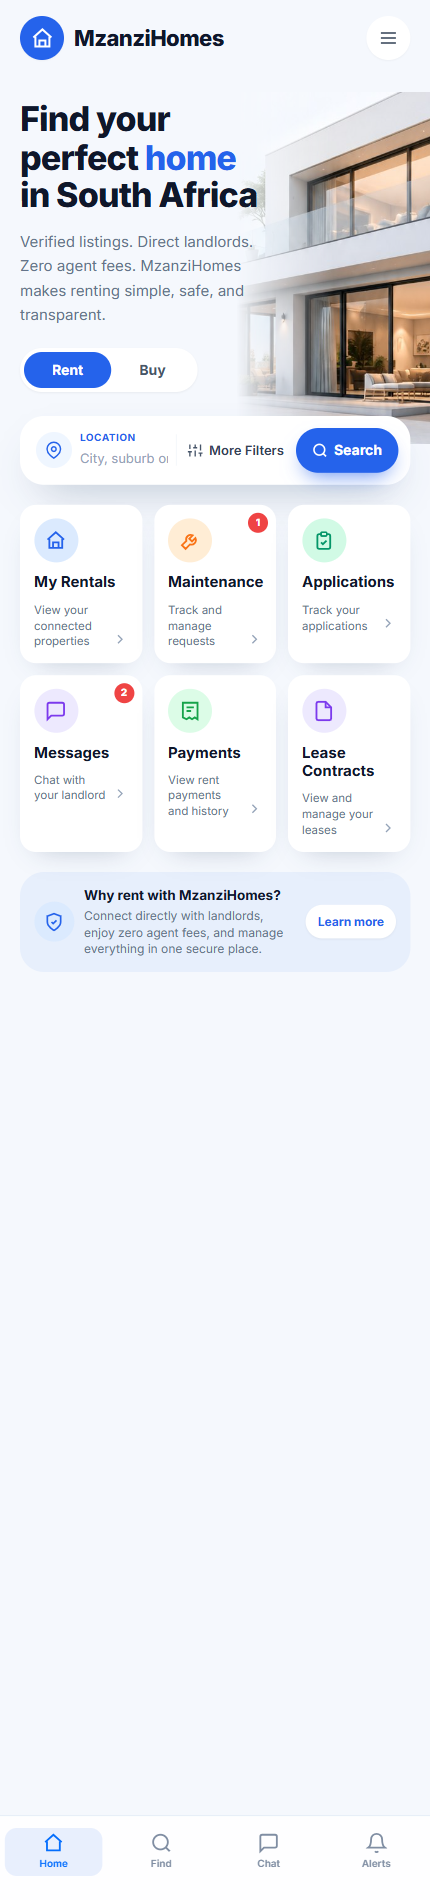
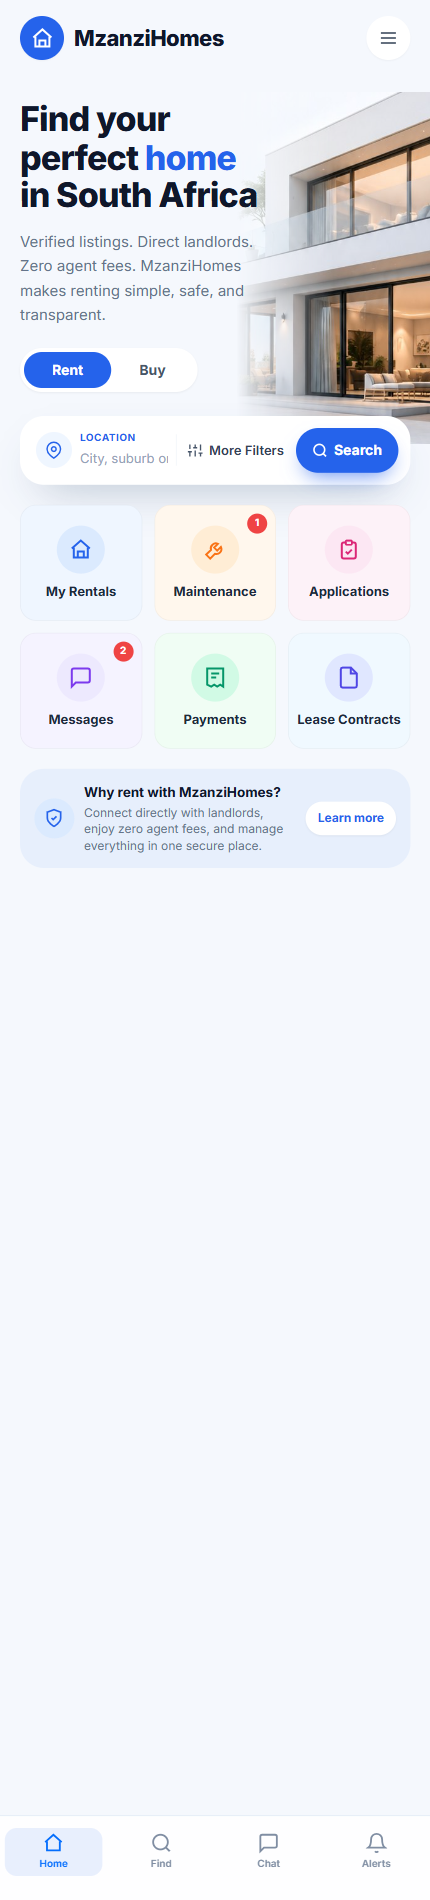
Tenant home: dashboard-style quick access tiles
Tinted tiles with centered icon circles and titles only, matching the
dashboard's Quick Access grid; descriptions and chevrons removed.

Changed region(s): [[0.0605, 0.2795, 0.6651, 0.5279], [0.6953, 0.2484, 0.907, 0.4658], [0.2721, 0.3105, 0.3326, 0.3726]]

diff --git a/apps/tenant/src/pages/TenantHome.tsx b/apps/tenant/src/pages/TenantHome.tsx
@@ -4,21 +4,22 @@ import { useAuth } from '@/hooks/useAuth';
 import { useUnreadMessages } from '@mzanzihomes/supabase/hooks/useUnreadMessages';
 import { cn } from '@mzanzihomes/common/lib/utils';
 import {
-  Home, Menu, Search, MapPin, SlidersHorizontal, ChevronRight,
+  Home, Menu, Search, MapPin, SlidersHorizontal,
   Wrench, ClipboardCheck, MessageCircle, Receipt, FileText, ShieldCheck,
 } from 'lucide-react';
 import heroHouse from '@/assets/hero-house.jpg';
 
 const PAGE_BG = '#f5f8fd';
 
-// The six feature tiles under the search card (2 rows × 3 columns).
+// The six feature tiles under the search card (2 rows × 3 columns),
+// styled like the dashboard's Quick Access tiles.
 const TILES = [
-  { label: 'My Rentals',      desc: 'View your connected properties',  icon: Home,          iconBg: 'bg-blue-100',    iconFg: 'text-blue-600',    path: '/enhancedtenantdashboard' },
-  { label: 'Maintenance',     desc: 'Track and manage requests',       icon: Wrench,        iconBg: 'bg-orange-100',  iconFg: 'text-orange-500',  path: '/tenant/maintenance' },
-  { label: 'Applications',    desc: 'Track your applications',         icon: ClipboardCheck, iconBg: 'bg-emerald-100', iconFg: 'text-emerald-600', path: '/tenant/applications' },
-  { label: 'Messages',        desc: 'Chat with your landlord',         icon: MessageCircle, iconBg: 'bg-violet-100',  iconFg: 'text-violet-600',  path: '/messages', showUnread: true },
-  { label: 'Payments',        desc: 'View rent payments and history',  icon: Receipt,       iconBg: 'bg-green-100',   iconFg: 'text-green-600',   path: '/tenant/payments' },
-  { label: 'Lease Contracts', desc: 'View and manage your leases',     icon: FileText,      iconBg: 'bg-violet-100',  iconFg: 'text-violet-600',  path: '/tenant/leases' },
+  { label: 'My Rentals',      icon: Home,           tint: 'bg-blue-50',   iconBg: 'bg-blue-100',    iconFg: 'text-blue-600',    path: '/enhancedtenantdashboard' },
+  { label: 'Maintenance',     icon: Wrench,         tint: 'bg-orange-50', iconBg: 'bg-orange-100',  iconFg: 'text-orange-500',  path: '/tenant/maintenance' },
+  { label: 'Applications',    icon: ClipboardCheck, tint: 'bg-pink-50',   iconBg: 'bg-pink-100',    iconFg: 'text-pink-600',    path: '/tenant/applications' },
+  { label: 'Messages',        icon: MessageCircle,  tint: 'bg-violet-50', iconBg: 'bg-violet-100',  iconFg: 'text-violet-600',  path: '/messages', showUnread: true },
+  { label: 'Payments',        icon: Receipt,        tint: 'bg-green-50',  iconBg: 'bg-emerald-100', iconFg: 'text-emerald-600', path: '/tenant/payments' },
+  { label: 'Lease Contracts', icon: FileText,       tint: 'bg-sky-50',    iconBg: 'bg-indigo-100',  iconFg: 'text-indigo-600',  path: '/tenant/leases' },
 ] as const;
 
 /** The tenant "Home" tab: search-first marketplace + quick access to rental admin. */
@@ -135,21 +136,17 @@ export default function TenantHome() {
               <button
                 key={t.label}
                 onClick={() => openTile(t.path)}
-                className="relative flex flex-col items-start gap-2.5 rounded-2xl bg-white p-3.5 text-left shadow-[0_12px_28px_-18px_rgba(20,50,90,0.35)] active:scale-[0.98]"
+                className={cn('relative flex flex-col items-center gap-2.5 rounded-2xl border border-black/[0.04] px-2 py-5 transition active:scale-95', t.tint)}
               >
                 {badge > 0 && (
-                  <span className="absolute right-2 top-2 flex h-5 min-w-[1.25rem] items-center justify-center rounded-full bg-red-500 px-1 text-[10px] font-extrabold text-white">
+                  <span className="absolute right-2 top-2 flex h-5 min-w-[1.25rem] items-center justify-center rounded-full bg-red-500 px-1 text-[10px] font-bold text-white">
                     {badge > 9 ? '9+' : badge}
                   </span>
                 )}
-                <span className={cn('flex h-11 w-11 items-center justify-center rounded-full', t.iconBg)}>
-                  <t.icon className={cn('h-[22px] w-[22px]', t.iconFg)} />
+                <span className={cn('flex h-12 w-12 items-center justify-center rounded-full', t.iconBg)}>
+                  <t.icon className={cn('h-6 w-6', t.iconFg)} />
                 </span>
-                <span className="text-[15px] font-bold leading-tight text-slate-900">{t.label}</span>
-                <span className="flex w-full items-end gap-1">
-                  <span className="flex-1 text-[11.5px] leading-snug text-slate-500">{t.desc}</span>
-                  <ChevronRight className="mb-0.5 h-4 w-4 shrink-0 text-slate-400" />
-                </span>
+                <span className="text-center text-[13px] font-bold leading-tight text-slate-800">{t.label}</span>
               </button>
             );
           })}
